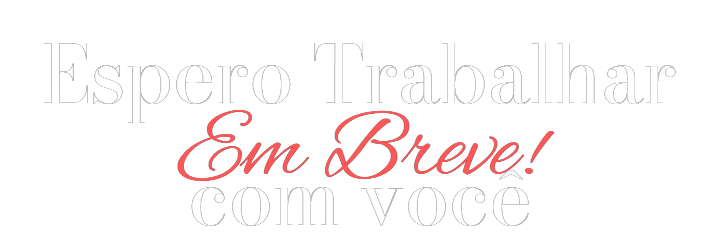
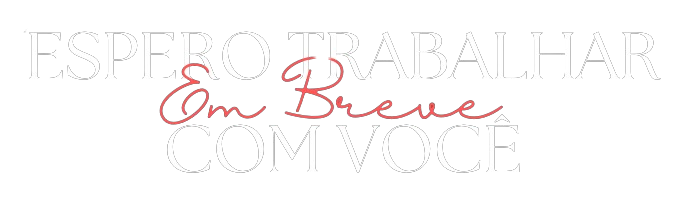
ajustes no layout

diff --git a/src/pages/LandingPage/style.css b/src/pages/LandingPage/style.css
@@ -13,31 +13,21 @@
     align-items: center;
     display: flex;
     justify-content: space-between;
+    cursor: pointer;
 }
 
 
-.mainTxt {
-    position: relative;
+.mainBanner {
+    margin: 0 5%;
 }
 
-h1 {
-    font-size: 5.5rem;
-    user-select: none;
-    font-weight: 200;
-    font-family: 'Bodoni Moda', serif;
+.mainBanner img {
+    width: 70%;
+    object-fit: cover;
 }
 
-h2 {
-    font-weight: 100;
-    user-select: none;
-    font-size: 6rem;
-    font-family: 'Alex Brush', cursive;
-    color: #FF5757;
-    position: absolute;
-    background: none;
-    transform: translate(-50%, -50%);
-    top: 84%;
-    left: 50%;
+.mainBanner .banner-mobile {
+    display: none;
 }
 
 .footerPics {
@@ -72,19 +62,6 @@ h2 {
     object-fit: cover;
 }
 
-
-
-
-
-
-@media (max-width: 710px) {
-    h2 {
-        top: 50%;
-    }
-}
-
-
-
 @media (max-width: 600px) {
 
     .navbar {
@@ -109,15 +86,6 @@ h2 {
         display: none;
     }
     
-
-    h1,h2 {
-        font-size: 3rem;
-    }
-
-    h2 {
-        top: 50%;
-    }
-
     .footerPics {
         flex-direction: column;
     }
@@ -127,8 +95,12 @@ h2 {
 
 }
 
-@media (min-width: 412px) {
-    h1 {
-        font-size: 4rem;
+@media (max-width: 450px) {
+    .mainBanner .banner-mobile {
+        display: inline;
+    }
+
+    .mainBanner .banner-desktop {
+        display: none;
     }
 }

diff --git a/src/pages/LandingPage/index.jsx b/src/pages/LandingPage/index.jsx
@@ -1,7 +1,9 @@
 import "./style.css";
-import imagem1 from "../../assets/imagem1.jpg"
-import imagem2 from "../../assets/imagem2.jpg"
-import imagem3 from "../../assets/imagem3.jpg"
+import imagem1 from "../../assets/home/imagem1.jpg"
+import imagem2 from "../../assets/home/imagem2.jpg"
+import imagem3 from "../../assets/home/imagem3.jpg"
+import bannerDesktop from '../../assets/home/banner-desktop.png';
+import bannerMobile from '../../assets/home/banner-mobile.png'
 import Category from "../../components/Category";
 import AboutSection from '../../components/AboutSection'
 import {Link} from "react-router-dom";
@@ -13,9 +15,9 @@ function Landing() {
 
             <div className="mainLandingSection">
 
-                <div className="mainTxt">
-                    <h1>GIOVANNA DIAS</h1>
-                    <h2>Fotografia</h2>
+                <div className="mainBanner">
+                    <img className="banner-desktop" src={bannerDesktop} alt="Nome Giovanna Dias Fotografia" />
+                    <img className="banner-mobile" src={bannerMobile} alt="Nome Giovanna Dias Fotografia" />
                 </div>
                 
 
